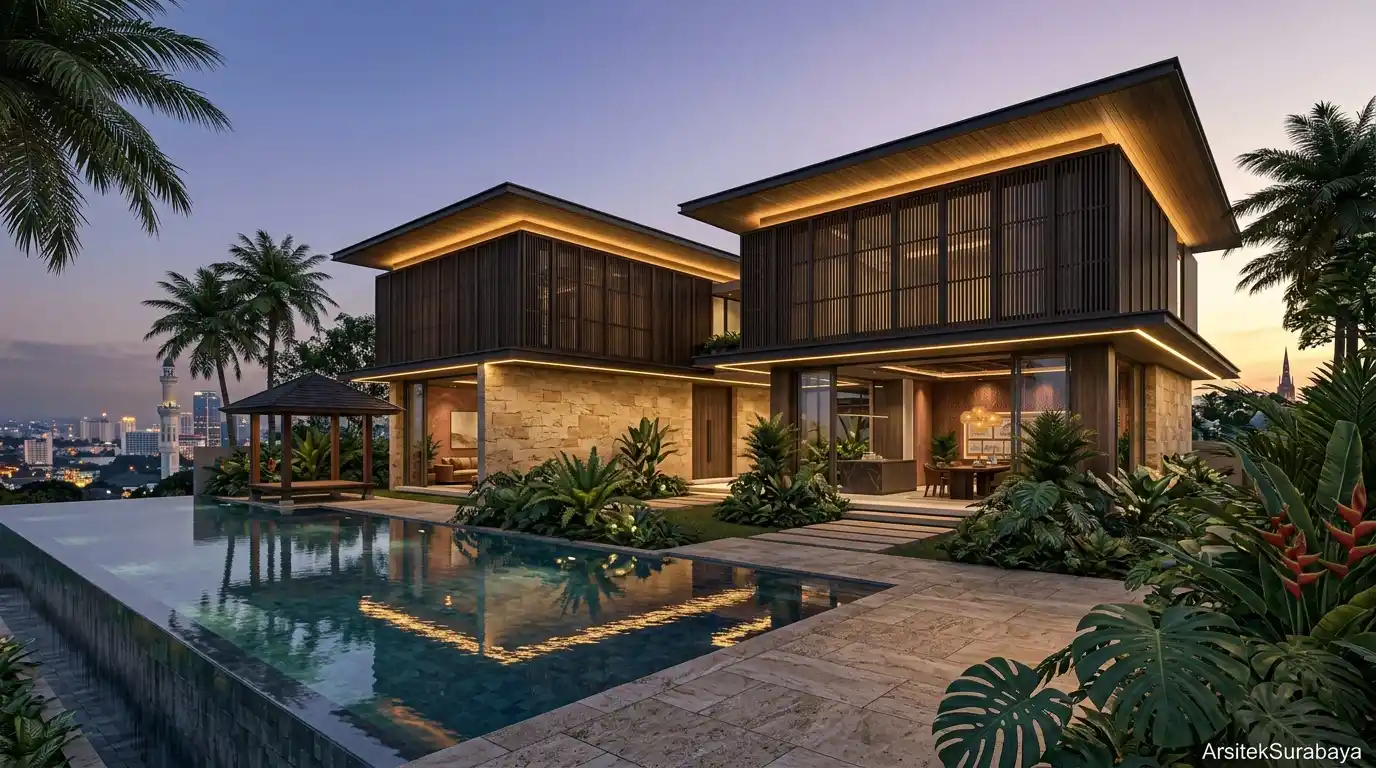
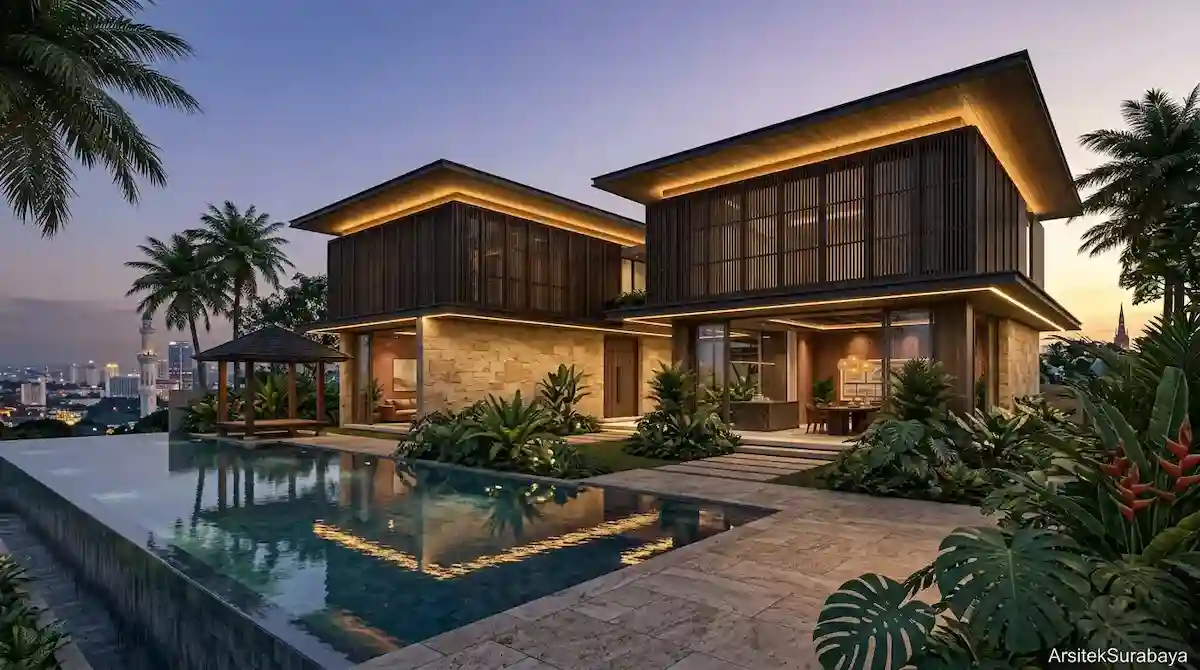
percobaan 2 pagespeed dibawah 2 detik

diff --git a/index.html b/index.html
@@ -26,13 +26,18 @@
   <meta name="geo.position" content="-7.257472;112.752088">
   <meta name="ICBM" content="-7.257472, 112.752088">
 
-  <!-- Favicons & Preloading -->
+  <!-- Favicons -->
   <link href="assets/img/logo.png" rel="icon">
   <link href="assets/img/logo.png" rel="apple-touch-icon">
+
+  <!-- Critical Preload LCP Image -->
+  <link rel="preload" as="image" href="assets/img/hero.webp" type="image/webp" fetchpriority="high">
+
+  <!-- Optimized Google Fonts Async Loading -->
   <link rel="preconnect" href="https://fonts.googleapis.com">
   <link rel="preconnect" href="https://fonts.gstatic.com" crossorigin>
-  <link rel="preload" as="image" href="assets/img/hero.webp" type="image/webp">
-  <link href="https://fonts.googleapis.com/css2?family=Open+Sans:wght@300;400;500;600;700&family=Poppins:wght@400;500;600;700&family=Raleway:wght@500;600;700;800&display=swap" rel="stylesheet">
+  <link href="https://fonts.googleapis.com/css2?family=Open+Sans:wght@400;600&family=Poppins:wght@400;600;700&display=swap" rel="stylesheet" media="print" onload="this.media='all'">
+  <noscript><link href="https://fonts.googleapis.com/css2?family=Open+Sans:wght@400;600&family=Poppins:wght@400;600;700&display=swap" rel="stylesheet"></noscript>
 
   <!-- Vendor CSS Files -->
   <link href="assets/vendor/bootstrap/css/bootstrap.min.css" rel="stylesheet">
@@ -43,6 +48,15 @@
 
   <!-- Main CSS File -->
   <link href="assets/css/main.css" rel="stylesheet">
+
+  <!-- Inline Critical CSS for Fast Mobile Render -->
+  <style>
+    body{margin:0;padding:0;font-family:'Poppins',sans-serif;background-color:#fff;color:#212529}
+    .header{background:#fff;box-shadow:0 2px 15px rgba(0,0,0,0.1);padding:15px 0}
+    .hero{position:relative;min-height:70vh;display:flex;align-items:center;justify-content:center;background-color:#2c1d18;overflow:hidden}
+    .hero img{position:absolute;inset:0;width:100%;height:100%;object-fit:cover;z-index:1}
+    .hero .container{position:relative;z-index:2;color:#fff}
+  </style>
 
   <!-- Structured Data JSON-LD -->
   <script type="application/ld+json">
@@ -94,7 +108,7 @@
     <div class="container-fluid container-xl position-relative d-flex align-items-center justify-content-between">
 
       <a href="index.html" class="logo d-flex align-items-center text-decoration-none me-auto me-xl-0">
-        <img src="assets/img/logo.png" alt="Logo Arsitek Surabaya" class="me-2">
+        <img src="assets/img/logo.png" alt="Logo Arsitek Surabaya" class="me-2" width="40" height="40">
         <h1 class="sitename m-0">ArsitekSurabaya</h1>
       </a>
 
@@ -175,7 +189,7 @@
       <div class="container">
         <div class="row gy-4 align-items-center">
           <div class="col-lg-6 order-1 order-lg-2" data-aos="fade-up" data-aos-delay="100">
-            <img src="assets/img/about-studio-team.webp" loading="lazy" class="img-fluid rounded shadow" alt="Tim Arsitek Surabaya Studio">
+            <img src="assets/img/about-studio-team.webp" loading="lazy" class="img-fluid rounded shadow" alt="Tim Arsitek Surabaya Studio" width="600" height="400">
           </div>
           <div class="col-lg-6 order-2 order-lg-1 content" data-aos="fade-up" data-aos-delay="200">
             <h3 class="fw-bold mb-3" style="color: var(--heading-color);">Mewujudkan Bangunan Impian dengan Pendekatan Presisi</h3>
@@ -206,7 +220,7 @@
             <article class="portfolio-card shadow-sm border rounded-4 overflow-hidden bg-white h-100">
               <div class="portfolio-img-wrapper">
                 <span class="portfolio-tag">Residensial</span>
-                <img src="assets/img/citraland-tropical-house.webp" loading="lazy" alt="Citraland Tropical House Surabaya" class="img-fluid w-100" style="height: 220px; object-fit: cover;">
+                <img src="assets/img/citraland-tropical-house.webp" loading="lazy" alt="Citraland Tropical House Surabaya" class="img-fluid w-100" style="height: 220px; object-fit: cover;" width="400" height="220">
               </div>
               <div class="p-4 bg-white">
                 <h4 class="fw-bold mb-1 fs-5" style="color: var(--heading-color);">Citraland Tropical House</h4>
@@ -220,7 +234,7 @@
             <article class="portfolio-card shadow-sm border rounded-4 overflow-hidden bg-white h-100">
               <div class="portfolio-img-wrapper">
                 <span class="portfolio-tag">Komersial</span>
-                <img src="assets/img/darmo-commercial-studio.webp" loading="lazy" alt="Darmo Commercial Studio Surabaya" class="img-fluid w-100" style="height: 220px; object-fit: cover;">
+                <img src="assets/img/darmo-commercial-studio.webp" loading="lazy" alt="Darmo Commercial Studio Surabaya" class="img-fluid w-100" style="height: 220px; object-fit: cover;" width="400" height="220">
               </div>
               <div class="p-4 bg-white">
                 <h4 class="fw-bold mb-1 fs-5" style="color: var(--heading-color);">Darmo Commercial Studio</h4>
@@ -234,7 +248,7 @@
             <article class="portfolio-card shadow-sm border rounded-4 overflow-hidden bg-white h-100">
               <div class="portfolio-img-wrapper">
                 <span class="portfolio-tag">Interior</span>
-                <img src="assets/img/graha-famili-interior.webp" loading="lazy" alt="Graha Famili Modern Interior Surabaya" class="img-fluid w-100" style="height: 220px; object-fit: cover;">
+                <img src="assets/img/graha-famili-interior.webp" loading="lazy" alt="Graha Famili Modern Interior Surabaya" class="img-fluid w-100" style="height: 220px; object-fit: cover;" width="400" height="220">
               </div>
               <div class="p-4 bg-white">
                 <h4 class="fw-bold mb-1 fs-5" style="color: var(--heading-color);">Graha Famili Interior</h4>
@@ -269,7 +283,7 @@
               <div class="position-relative overflow-hidden" style="height: 200px;">
                 <span class="badge position-absolute top-0 start-0 m-3 px-3 py-2 z-1" style="background-color: var(--accent-color); font-size: 0.75rem;">Teknis & Lingkungan</span>
                 <a href="strategi-desain-rumah-bebas-banjir-surabaya.html">
-                  <img src="assets/img/blog-rumah-bebas-banjir-surabaya.webp" loading="lazy" alt="Strategi Desain Rumah Bebas Banjir & Genangan di Surabaya" class="w-100 h-100 object-fit-cover">
+                  <img src="assets/img/blog-rumah-bebas-banjir-surabaya.webp" loading="lazy" alt="Strategi Desain Rumah Bebas Banjir & Genangan di Surabaya" class="w-100 h-100 object-fit-cover" width="400" height="200">
                 </a>
               </div>
               <div class="card-body p-4 bg-white d-flex flex-column justify-content-between">
@@ -294,7 +308,7 @@
               <div class="position-relative overflow-hidden" style="height: 200px;">
                 <span class="badge position-absolute top-0 start-0 m-3 px-3 py-2 z-1" style="background-color: var(--accent-color); font-size: 0.75rem;">Desain Interior</span>
                 <a href="estetika-desain-interior-japandi-surabaya.html">
-                  <img src="assets/img/blog-interior-japandi-surabaya.webp" loading="lazy" alt="Mengenal Tren Desain Interior Japandi untuk Rumah Modern di Surabaya" class="w-100 h-100 object-fit-cover">
+                  <img src="assets/img/blog-interior-japandi-surabaya.webp" loading="lazy" alt="Mengenal Tren Desain Interior Japandi untuk Rumah Modern di Surabaya" class="w-100 h-100 object-fit-cover" width="400" height="200">
                 </a>
               </div>
               <div class="card-body p-4 bg-white d-flex flex-column justify-content-between">
@@ -319,7 +333,7 @@
               <div class="position-relative overflow-hidden" style="height: 200px;">
                 <span class="badge position-absolute top-0 start-0 m-3 px-3 py-2 z-1" style="background-color: var(--accent-color); font-size: 0.75rem;">Pencahayaan & Eksterior</span>
                 <a href="desain-pencahayaan-fasad-landscape-rumah-surabaya.html">
-                  <img src="assets/img/blog-pencahayaan-fasad-surabaya.webp" loading="lazy" alt="Panduan Desain Pencahayaan Fasad & Landscape Rumah di Surabaya" class="w-100 h-100 object-fit-cover">
+                  <img src="assets/img/blog-pencahayaan-fasad-surabaya.webp" loading="lazy" alt="Panduan Desain Pencahayaan Fasad & Landscape Rumah di Surabaya" class="w-100 h-100 object-fit-cover" width="400" height="200">
                 </a>
               </div>
               <div class="card-body p-4 bg-white d-flex flex-column justify-content-between">
@@ -544,7 +558,7 @@
 
   <div id="preloader"></div>
 
-  <!-- Vendor JS Files -->
+  <!-- Vendor JS Files dengan Defer non-blocking -->
   <script src="assets/vendor/bootstrap/js/bootstrap.bundle.min.js" defer></script>
   <script src="assets/vendor/aos/aos.js" defer></script>
   <script src="assets/vendor/glightbox/js/glightbox.min.js" defer></script>
